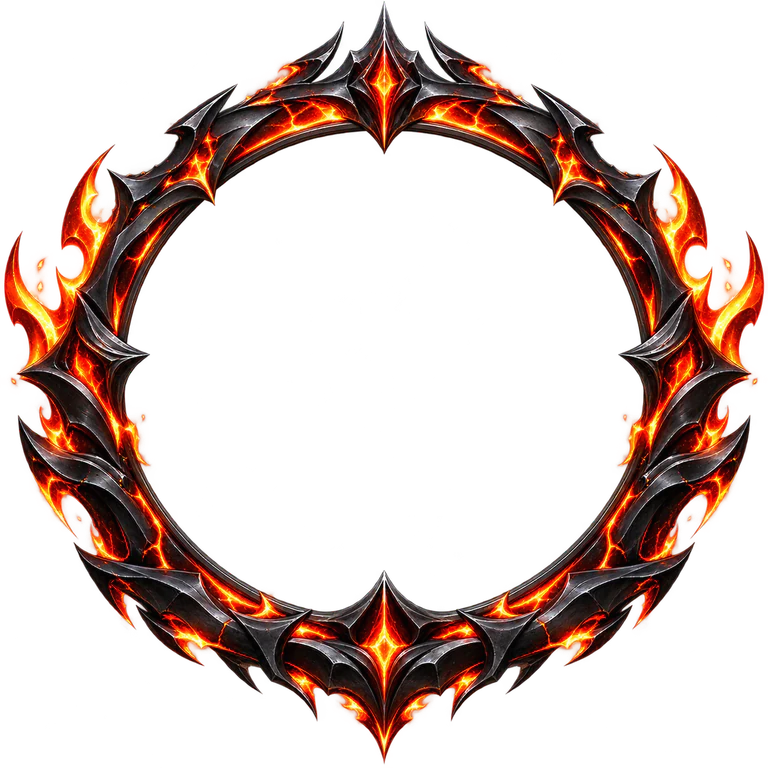
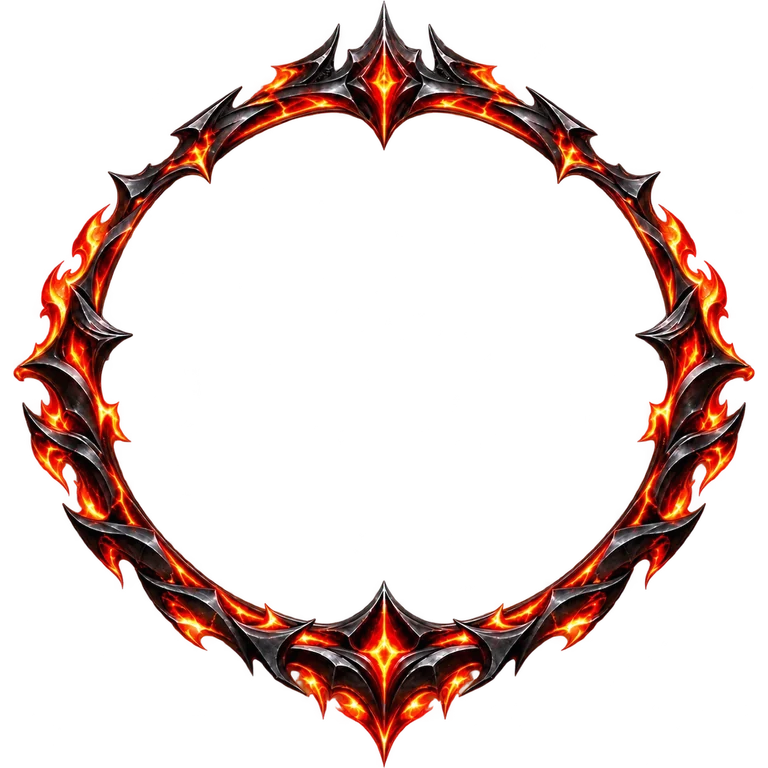
Improve frame and recruitment card presentation

Changed region(s): [[0.0, 0.0, 1.0, 1.0]]

diff --git a/client/src/pages/league/HubModals.tsx b/client/src/pages/league/HubModals.tsx
@@ -1,6 +1,9 @@
-import { UserPlus, AlertTriangle, Ban, Pointer, RefreshCw } from 'lucide-react';
+import { useEffect, useState } from 'react';
+import { UserPlus, AlertTriangle, Ban, LoaderCircle, Pointer, RefreshCw } from 'lucide-react';
 import { INLINE_ICON } from '../../components/game/inlineIcon';
 import PlayerCard from '../../components/game/PlayerCard';
+import { preloadPlayerCardArtwork } from '../../lib/cardPreload';
+import type { Player } from '@shared/game/gameData';
 import MatchDetailsModal from '../../components/game/MatchDetailsModal';
 import MatchCreditsModal from '../../components/game/MatchCreditsModal';
 import MissionResolutionModal from '../../components/game/MissionResolutionModal';
@@ -13,6 +16,60 @@ import { MAX_RESERVE_PLAYERS } from '@shared/game/gameEngine';
 import { POS_PT } from '@shared/game/gameData';
 import { Button, GameModal } from '../../design-system';
 import type { LeagueHub } from './useLeagueHub';
+
+function RecruitmentOfferCards({
+  options,
+  selectionsRemaining,
+  onPick,
+}: {
+  options: Player[];
+  selectionsRemaining: number;
+  onPick: (player: Player) => void;
+}) {
+  const [loadedArtKey, setLoadedArtKey] = useState('');
+  const artKey = options.map(option => [
+    option.id,
+    option.rarity,
+    option.evolutionLevel ?? '',
+    option.appearances ?? '',
+    option.specialization ?? '',
+    option.specializationUnlocked ? 1 : 0,
+    option.competitionAlbumLevel ?? 0,
+  ].join(':')).join('|');
+
+  useEffect(() => {
+    let active = true;
+    void preloadPlayerCardArtwork(options).then(() => {
+      if (active) setLoadedArtKey(artKey);
+    });
+    return () => { active = false; };
+  }, [artKey, options]);
+
+  if (loadedArtKey !== artKey) {
+    return (
+      <div className="flex min-h-40 items-center justify-center gap-2 text-sm font-semibold text-[var(--ui-text-muted)]" role="status">
+        <LoaderCircle size={17} className="animate-spin" aria-hidden="true" />
+        Preparando as cartas…
+      </div>
+    );
+  }
+
+  return (
+    <div className="grid grid-cols-3 justify-items-center gap-2 sm:grid-cols-6 sm:gap-3">
+      {options.map(option => (
+        <button
+          key={option.id}
+          onClick={() => onPick(option)}
+          className="transition-transform hover:scale-[1.06] active:scale-[0.97] focus:outline-none focus-visible:outline-2 focus-visible:outline-offset-2 focus-visible:outline-[var(--ui-focus)]"
+          title={`Contratar ${option.shortName} (${selectionsRemaining} escolha${selectionsRemaining === 1 ? '' : 's'} restante${selectionsRemaining === 1 ? '' : 's'})`}
+          aria-label={`Contratar ${option.shortName}`}
+        >
+          <PlayerCard player={option} compact lite />
+        </button>
+      ))}
+    </div>
+  );
+}
 
 // Modals rendered at the end of the league hub page.
 export default function HubModals({ hub }: { hub: LeagueHub }) {
@@ -152,21 +209,11 @@ export default function HubModals({ hub }: { hub: LeagueHub }) {
               </div>
             }
           >
-                {/* Options — bigger full cards (light, no animations) */}
-                {/* Opções: grade que cabe SEM rolagem (3 col no celular, 6 no PC) */}
-                <div className="grid grid-cols-3 sm:grid-cols-6 gap-2 sm:gap-3 justify-items-center">
-                  {state.reinforcementOptions.map(option => (
-                    <button
-                      key={option.id}
-                      onClick={() => online ? pickReinforcementOnline(option) : dispatch({ type: 'PICK_REINFORCEMENT', player: option })}
-                      className="transition-transform hover:scale-[1.06] active:scale-[0.97] focus:outline-none focus-visible:outline-2 focus-visible:outline-offset-2 focus-visible:outline-[var(--ui-focus)]"
-                      title={`Contratar ${option.shortName} (${recruitmentSelectionsRemaining} escolha${recruitmentSelectionsRemaining === 1 ? '' : 's'} restante${recruitmentSelectionsRemaining === 1 ? '' : 's'})`}
-                      aria-label={`Contratar ${option.shortName}`}
-                    >
-                      <PlayerCard player={option} compact lite />
-                    </button>
-                  ))}
-                </div>
+                <RecruitmentOfferCards
+                  options={state.reinforcementOptions}
+                  selectionsRemaining={recruitmentSelectionsRemaining}
+                  onPick={option => online ? pickReinforcementOnline(option) : dispatch({ type: 'PICK_REINFORCEMENT', player: option })}
+                />
           </GameModal>
         )}
       </>

diff --git a/client/src/contexts/AccountContext.tsx b/client/src/contexts/AccountContext.tsx
@@ -364,7 +364,7 @@ interface AccountContextValue {
   }) => Promise<{ id: string; duplicate: boolean; achievementsUnlocked?: AchievementUnlock[]; framesUnlocked?: FrameUnlock[]; eventCardsUnlocked?: EventCardUnlock[]; albumGrants?: ItemGrant[] }>;
   getOwnAchievements: (since?: number) => Promise<AchievementsPayload & { recentlyUnlocked: AchievementUnlock[] }>;
   peekOwnAchievements: () => AchievementsPayload | null;
-  getEvents: () => Promise<EventsPayload>;
+  getEvents: (forceRefresh?: boolean) => Promise<EventsPayload>;
   peekEvents: () => EventsPayload | null;
   /** Picks the account's option in a choice event (for good). */
   chooseEventOption: (eventId: string, choice: string) => Promise<EventsPayload>;
@@ -667,24 +667,24 @@ export function AccountProvider({ children }: { children: ReactNode }) {
     return accountId ? readCacheFor(accountId).events?.value ?? null : null;
   }, [accountId, readCacheFor]);
 
-  const getEvents = useCallback(async () => {
+  const getEvents = useCallback(async (forceRefresh = false) => {
     const cache = accountId ? readCacheFor(accountId) : null;
     const entry = cache ? (cache.events ??= { updatedAt: 0 }) : null;
-    if (isReadCacheFresh(entry)) {
+    if (!forceRefresh && isReadCacheFresh(entry)) {
       setEventCards(entry.value.eventCards ?? []);
       return entry.value;
     }
-    if (entry?.request) return entry.request;
+    if (!forceRefresh && entry?.request) return entry.request;
     const revision = cache?.revision;
     const request = api<EventsPayload>('/api/account/events');
     if (entry) entry.request = request;
     try {
       const payload = await request;
-      if (cache && cache.revision === revision && entry) {
+      if (cache && cache.revision === revision && entry && entry.request === request) {
         entry.value = payload;
         entry.updatedAt = Date.now();
       }
-      if (!cache || cache.revision === revision) setEventCards(payload.eventCards ?? []);
+      if ((!cache || cache.revision === revision) && (!entry || entry.request === request)) setEventCards(payload.eventCards ?? []);
       return payload;
     } finally {
       if (entry?.request === request) entry.request = undefined;

diff --git a/client/src/lib/cardPreload.ts b/client/src/lib/cardPreload.ts
@@ -8,12 +8,47 @@
 
 import { crestIdForClub, getCrest } from '@shared/game/crests';
 import type { Player } from '@shared/game/gameData';
-import { buildPlayerPhotoSources, getFlagUrl } from '../components/game/PlayerCard';
+import { getEvolutionLevel } from '@shared/game/gameEngine';
+import { FRAME_URL } from '../components/game/CardShield';
+import { buildPlayerPhotoSources, cardTexture, getFlagUrl, UNIQUE_STYLE } from '../components/game/PlayerCard';
 
 const CONCURRENCY = 4;
 const requested = new Set<string>();
 /** Kept alive so the decoded images are not collected before the cards use them. */
 const alive: HTMLImageElement[] = [];
+const cardArtworkLoads = new Map<string, Promise<void>>();
+
+function preloadDecodedImage(url: string): Promise<void> {
+  const existing = cardArtworkLoads.get(url);
+  if (existing) return existing;
+
+  const pending = new Promise<void>(resolve => {
+    const image = new Image();
+    image.decoding = 'async';
+    image.onload = () => {
+      alive.push(image);
+      const decoded = image.decode?.();
+      if (decoded) void decoded.catch(() => undefined).then(resolve);
+      else resolve();
+    };
+    image.onerror = () => resolve();
+    image.src = url;
+  });
+  cardArtworkLoads.set(url, pending);
+  return pending;
+}
+
+/** Waits for the frame, texture and album trim used by compact recruitment cards to decode. */
+export function preloadPlayerCardArtwork(players: readonly Player[]): Promise<void> {
+  const urls = new Set<string>([FRAME_URL]);
+  for (const player of players) {
+    const unique = UNIQUE_STYLE[player.id];
+    urls.add(unique?.texture ?? cardTexture(player.rarity, getEvolutionLevel(player), player.specialization));
+    if (unique?.render) urls.add(unique.render);
+    if ((player.competitionAlbumLevel ?? 0) >= 2) urls.add(`/cards/album-level-${player.competitionAlbumLevel}.webp`);
+  }
+  return Promise.all(Array.from(urls, preloadDecodedImage)).then(() => undefined);
+}
 
 function load(url: string): Promise<boolean> {
   return new Promise(resolve => {

diff --git a/client/src/components/store/AppearanceShop.tsx b/client/src/components/store/AppearanceShop.tsx
@@ -70,7 +70,12 @@ export default function AppearanceShop() {
         await buyFrame(confirmingItem.key);
         const purchasedKey = confirmingItem.key;
         setOwnedFrames(current => current?.includes(purchasedKey) ? current : [...(current ?? []), purchasedKey]);
-        void getEvents().then(result => setOwnedFrames(result.frames)).catch(() => undefined);
+        try {
+          const result = await getEvents(true);
+          setOwnedFrames(result.frames);
+        } catch {
+          // Keep the optimistic ownership update if refreshing the inventory fails.
+        }
       } else if (confirming.kind === 'cover') {
         await buyCover(confirmingItem.key);
       } else {

diff --git a/client/src/pages/league/useLeagueHub.ts b/client/src/pages/league/useLeagueHub.ts
@@ -98,9 +98,8 @@ export function useLeagueHub() {
     (recruitmentOffer?.freeRerolls ?? 0) - (recruitmentOffer?.rerollsUsed ?? 0),
   );
 
-  // Warm the compact portraits before the reinforcement modal is painted. The
-  // modal has only a handful of cards, but waiting for lazy image loading here
-  // makes the offer feel like a single, immediate interaction on mobile.
+  // Warm the compact portraits as soon as the offer is created. The modal waits
+  // for its frame and texture separately before showing the cards.
   const reinforcementPhotoKey = state.reinforcementOptions?.map(option => option.id).join('|') ?? '';
   useEffect(() => {
     if (!reinforcementPhotoKey) return;
